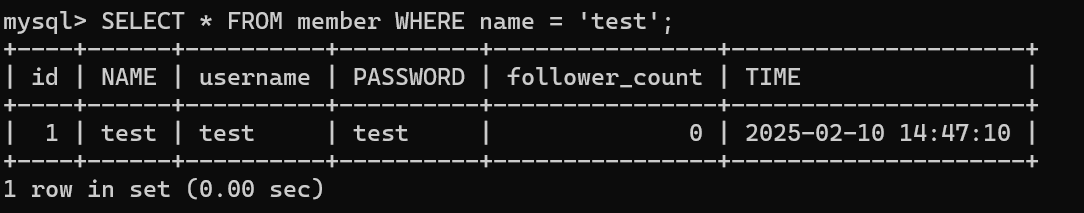
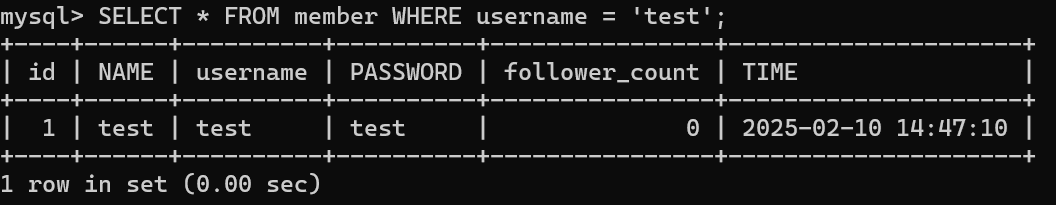
assignment finished

diff --git a/week5/README.md b/week5/README.md
@@ -99,7 +99,7 @@ outcome :
 SQL:
 
 ```sql
-SELECT * FROM member WHERE name = 'test';
+SELECT * FROM member WHERE username = 'test';
 
 ```
 
